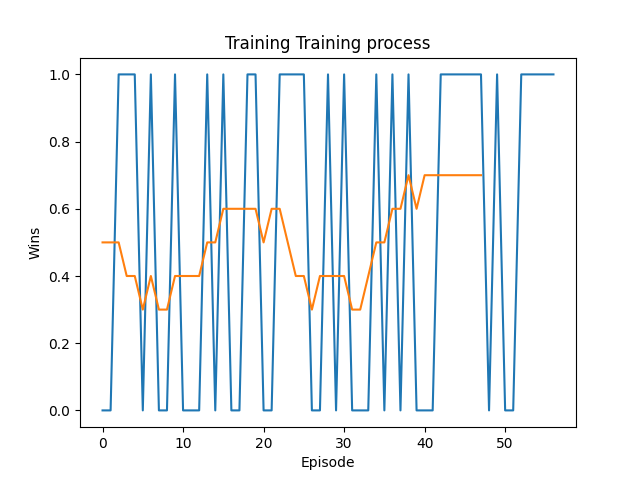
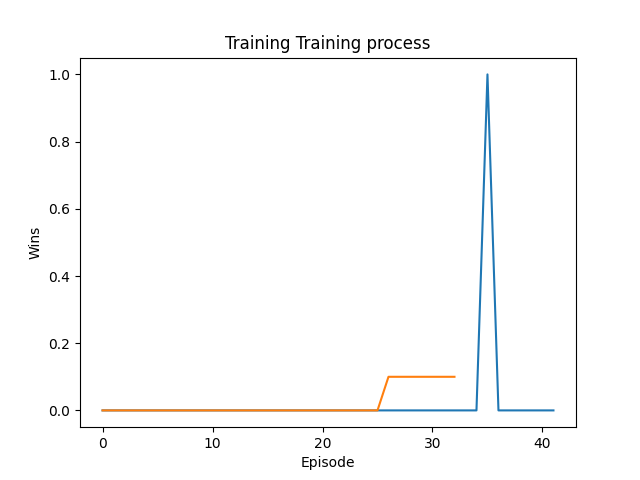
implmentation random AI

diff --git a/my_agent.py b/my_agent.py
@@ -4,6 +4,10 @@ import torch
 import torch.nn as nn
 import torch.optim as optim
 import torch.nn.functional as F
+import random
+import my_utils
+from wimblepong import Wimblepong
+
 
 # DQN architecture
 class DQN(nn.Module):
@@ -17,15 +21,15 @@ class DQN(nn.Module):
     forward() : compute forward pass in the network
     """
 
-    def __init__(self, action_space_dim, hidden_dim=256):
+    def __init__(self, action_space_dim=3, hidden_dim=256):
         """
-        initialization of the DQN
+        Initialization of the DQN
         ------------
         # Parameters
         ------------
 
-        action_space_dim : dimension of the action space
-        emd_dim : dimension of the embedding space of the input image
+        action_space_dim : dimension of the action space (0: stay still, 1: go up, 2: do down)
+        hidden_dim : dimension of the embedding space of the input image
         """
 
         # call to super
@@ -46,7 +50,7 @@ class DQN(nn.Module):
 
     def forward(self, x):
         """
-        forward the image in the network
+        Forward the image in the network
         ------------
         # Parameters
         ------------
@@ -60,3 +64,75 @@ class DQN(nn.Module):
         x = F.relu(self.fc1(x))
         x = self.fc2(x)
         return x
+
+
+class Agent(object):
+    """
+    RL agent for the Atari game
+    ---------------
+    # Functions
+    ---------------
+
+    __init__() : initialize the agent
+    get_name() : get name for the agent
+    get_action() : get action to take given a frame as input
+    reset() : reset state for the agent
+    """
+
+    def __init__(self, env, player_id=1):
+        """
+        Initialization of the Agent
+        ------------
+        # Parameters
+        ------------
+
+        env : environment in which the agent operates, must be Wimblepong
+        player_id : id assigned to the player, id determines on which side the ai is going to play
+        """
+        # check if environment is correct
+        if type(env) is not Wimblepong:
+            raise TypeError("I'm not a very smart AI. All I can play is Wimblepong.")
+
+        # list of parameters of the agent
+        self.env = env
+        self.player_id = id
+        self.name = "\(°_°')/"
+        self.policy_net = DQN(action_space_dim=3, hidden_dim=256)
+        self.optimizer = optim.Adam(self.policy_net.parameters(), lr=1e-3)
+        self.batch_size = 32  # size of batch for update
+        self.gamma = 0.98  # discount factor
+
+    def get_action(self, ob=None):
+        """
+        Interface function that returns the action that the agent took based
+        on the observation ob
+
+        ------------
+        # Parameters
+        ------------
+
+        ob : frame from the game
+        """
+        # grayscale image
+        ob_gray = my_utils.rgb2grayscale(ob)
+        ob_gray = np.expand_dims(ob_gray, 0)
+        ob_gray = torch.Tensor(ob_gray)
+
+        # forward
+        # TODO: epsilon greedy
+        action = self.policy_net.forward(ob_gray).argmax().item()
+
+        return action
+
+    def get_name(self):
+        """
+        Interface function to retrieve the agents name
+        """
+        return self.name
+
+    def reset(self):
+        """
+        ???
+        """
+        # Nothing to done for now...
+        return

diff --git a/my_train_against_ai.py b/my_train_against_ai.py
@@ -23,9 +23,9 @@ env.unwrapped.fps = args.fps
 episodes = 100000  # Number of episodes/games to play
 
 # Define the player IDs for both agents
-# player = my_agent.Agent(env, 1)
+player = my_agent.Agent(env, 1)
 opponent = wimblepong.SimpleAi(env, 2)
-player = wimblepong.SimpleAi(env, 1)
+# player = wimblepong.SimpleAi(env, 1)
 
 # Set the names for both SimpleAIs
 env.set_names(player.get_name(), opponent.get_name())
@@ -35,10 +35,12 @@ wins = [0]
 for i in range(0, episodes):
 
     done = False
+    (ob1, ob2) = env.reset()
     while not done:
 
         # Get the actions from both SimpleAIs
-        action1 = player.get_action()
+        action1 = player.get_action(ob1)
+        print(action1)
         action2 = opponent.get_action()
 
         # Step the environment and get the rewards and new observations
